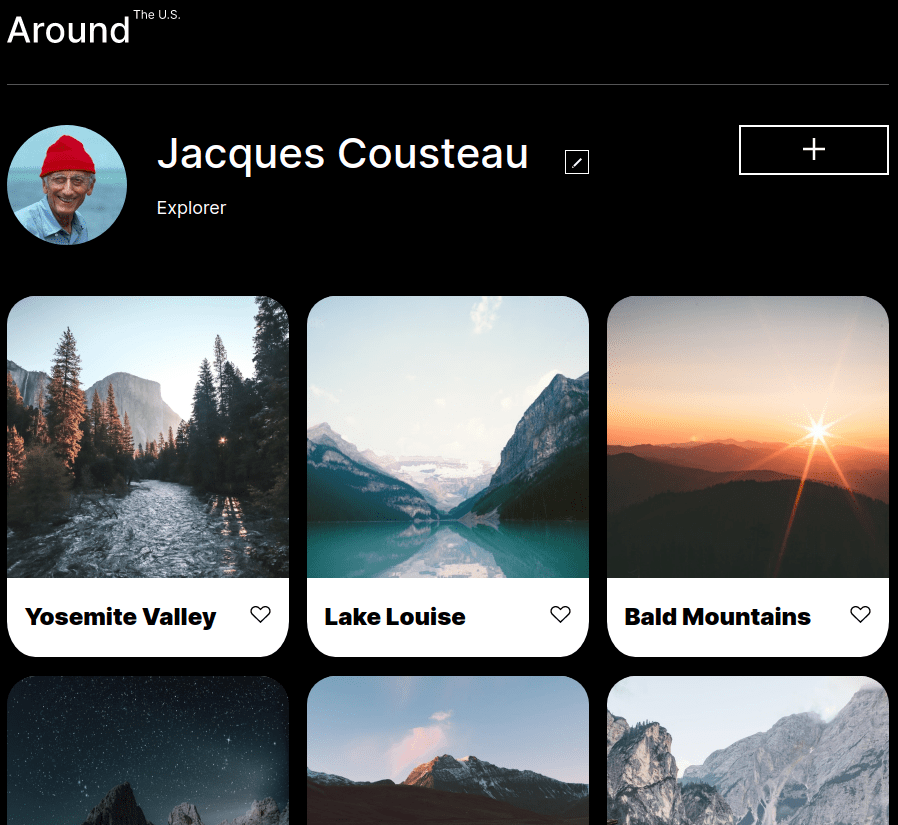
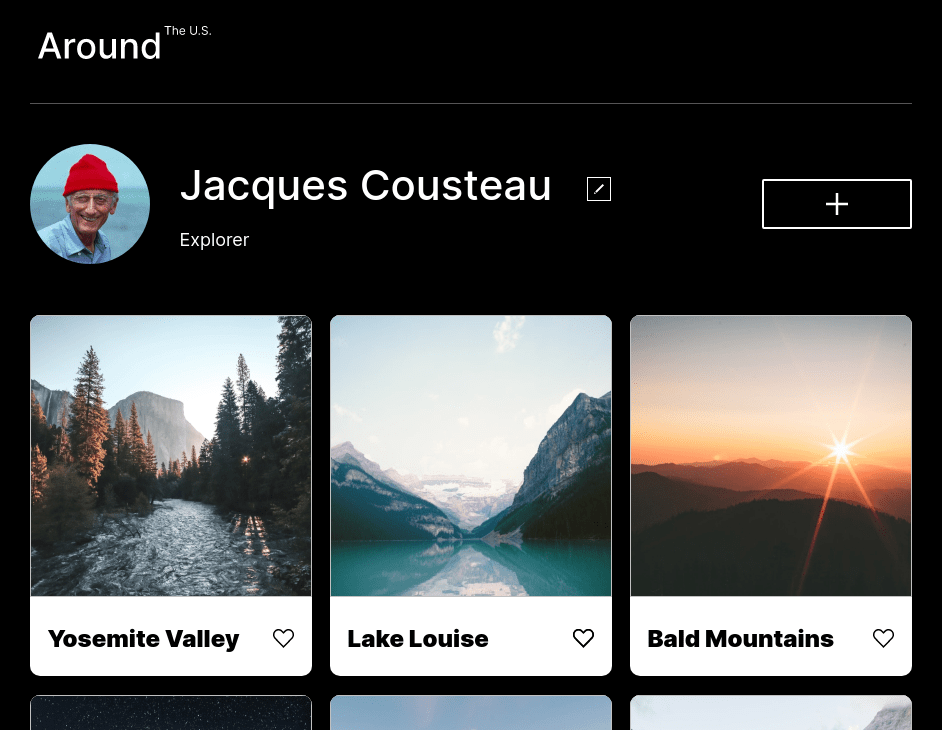
refactor: updated readme page image + added modal image

diff --git a/README.md b/README.md
@@ -25,3 +25,5 @@ This is a single page project title *Around The U.S.* The page is an interactive
 **Sample Image**
 
 ![Screen shot of page](./images/sample_final-min.png)
+
+![Screen shot of modal](./images/sample_modal-min.png)
